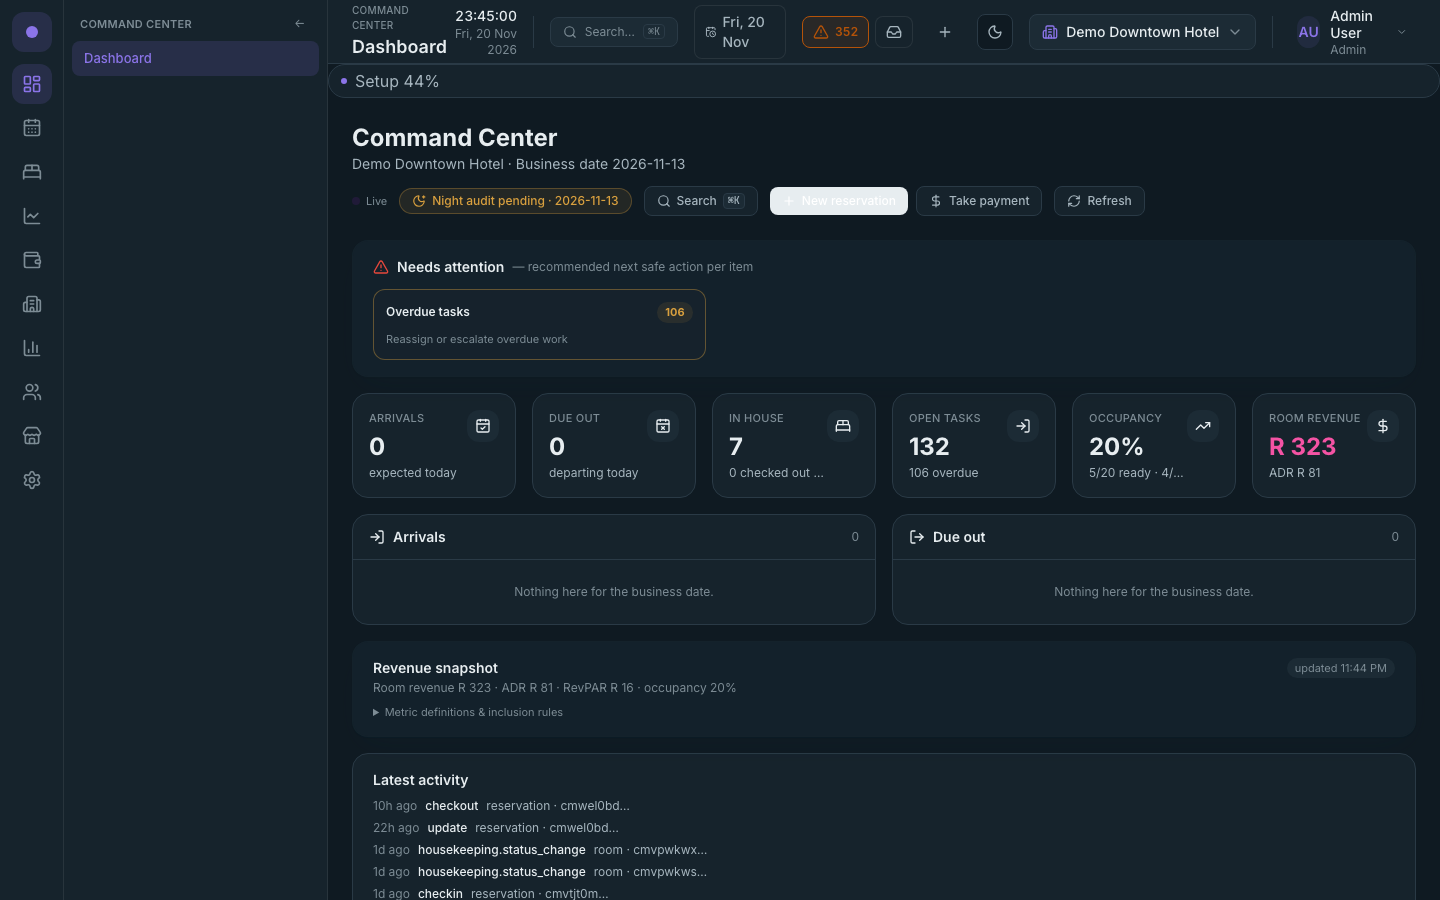
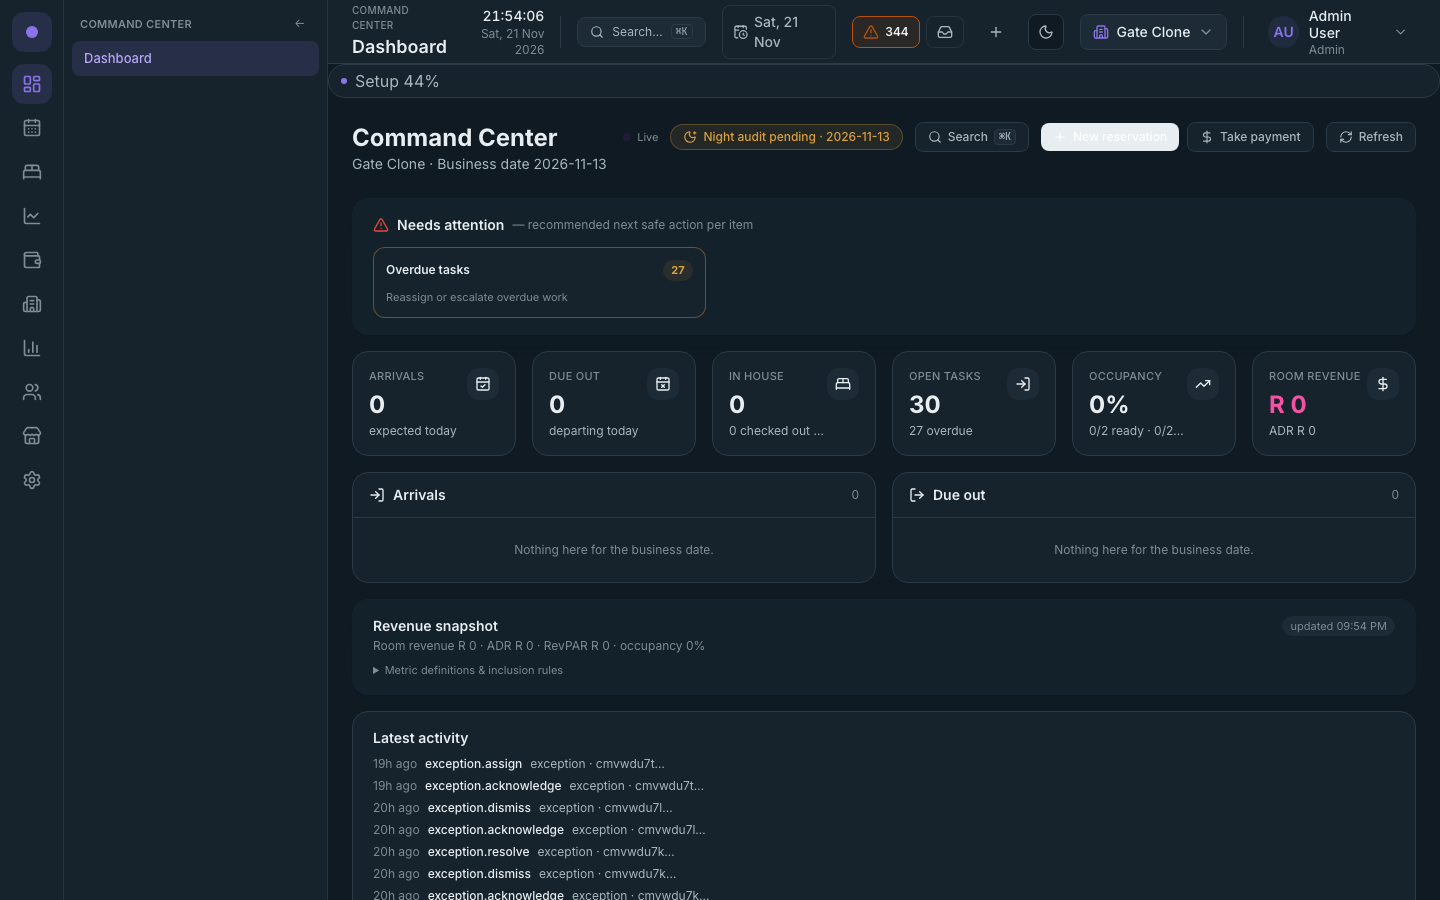
fix(a11y): F-12 soft-pair foreground tokens (warning/danger/info/accent-soft-fg, AA-computed per theme) + chips repointed + AR table headers to primary foreground; 22 -> rescan

diff --git a/apps/web/src/app/app/ar/page.jsx b/apps/web/src/app/app/ar/page.jsx
@@ -47,9 +47,9 @@ const fmtDate = (d) => (d ? new Date(d).toISOString().slice(0, 10) : '—');
 
 const STATUS_STYLE = {
   draft: 'bg-[var(--hq-surface-2)] text-text-secondary',
-  sent: 'bg-accent/15 text-accent',
-  partially_paid: 'bg-warning/25 text-warning',
-  overdue: 'bg-danger/25 text-danger',
+  sent: 'bg-accent/15 text-[var(--accent-soft-fg)]',
+  partially_paid: 'bg-warning/25 text-[var(--warning-soft-fg)]',
+  overdue: 'bg-danger/25 text-[var(--danger-soft-fg)]',
   paid: 'bg-success/15 text-success',
   cancelled: 'bg-[var(--hq-surface-2)] text-text-muted line-through',
 };
@@ -86,7 +86,7 @@ function InvoiceStatusBar({ invoices }) {
 
 const inputCls =
   'w-full rounded-md border border-border bg-card px-3 py-2 text-sm focus:outline-none focus:ring-2 focus:ring-slate-300';
-const thCls = 'px-4 py-2 text-left text-xs font-semibold uppercase tracking-wide text-text-muted';
+const thCls = 'px-4 py-2 text-left text-xs font-semibold uppercase tracking-wide text-text-primary';
 const tdCls = 'px-4 py-2.5 text-sm text-text-secondary';
 
 // ─── Small building blocks ───

diff --git a/apps/web/src/app/app/dashboard/dashWidgets.jsx b/apps/web/src/app/app/dashboard/dashWidgets.jsx
@@ -471,9 +471,9 @@ export function AttentionStrip({ exceptions, loading }) {
 // then urgent tasks, then remaining departures, then arrivals.
 
 const kindMeta = {
-  Departure: { icon: CalendarX, chip: 'bg-info/25 text-info' },
+  Departure: { icon: CalendarX, chip: 'bg-info/25 text-[var(--info-soft-fg)]' },
   Arrival: { icon: CalendarCheck, chip: 'bg-accent/10 text-accent' },
-  Task: { icon: AlertTriangle, chip: 'bg-warning/25 text-warning' },
+  Task: { icon: AlertTriangle, chip: 'bg-warning/25 text-[var(--warning-soft-fg)]' },
 };
 
 export function PriorityWorklist({ arrivals, departures, tasksTop, currency, loading, viewAllTo }) {

diff --git a/apps/web/src/components/StatusBanner.tsx b/apps/web/src/components/StatusBanner.tsx
@@ -42,7 +42,7 @@ export function StatusBanner() {
       className={
         critical
           ? 'flex items-center gap-2 border-b border-red-500/30 bg-red-500/10 px-4 py-2 text-sm font-medium text-red-500 hover:bg-red-500/15'
-          : 'flex items-center gap-2 border-b border-warning/30 bg-warning/10 px-4 py-2 text-sm font-medium text-warning hover:bg-warning/25'
+          : 'flex items-center gap-2 border-b border-warning/30 bg-warning/10 px-4 py-2 text-sm font-medium text-[var(--warning-soft-fg)] hover:bg-warning/25'
       }
     >
       <AlertTriangle className="h-4 w-4 shrink-0" />

diff --git a/apps/web/src/app/app/night-audit/page.jsx b/apps/web/src/app/app/night-audit/page.jsx
@@ -70,7 +70,7 @@ const severityConfig = {
 const statusConfig = {
   in_progress: {
     label: 'In Progress',
-    color: 'bg-accent/15 text-accent',
+    color: 'bg-accent/15 text-[var(--accent-soft-fg)]',
   },
   completed: {
     label: 'Completed',
@@ -78,11 +78,11 @@ const statusConfig = {
   },
   failed: {
     label: 'Failed',
-    color: 'bg-danger/25 text-danger',
+    color: 'bg-danger/25 text-[var(--danger-soft-fg)]',
   },
   rolled_back: {
     label: 'Rolled Back',
-    color: 'bg-warning/25 text-warning',
+    color: 'bg-warning/25 text-[var(--warning-soft-fg)]',
   },
 };
 

diff --git a/apps/web/src/app/app/keys/page.jsx b/apps/web/src/app/app/keys/page.jsx
@@ -169,9 +169,9 @@ export default function KeysPage() {
                 <Badge
                   className={
                     i.status === 'active'
-                      ? 'bg-warning/25 text-warning'
+                      ? 'bg-warning/25 text-[var(--warning-soft-fg)]'
                       : i.status === 'lost'
-                        ? 'bg-danger/25 text-danger'
+                        ? 'bg-danger/25 text-[var(--danger-soft-fg)]'
                         : 'bg-muted text-muted-foreground'
                   }
                 >

diff --git a/apps/web/src/components/billing/ReceiptCard.jsx b/apps/web/src/components/billing/ReceiptCard.jsx
@@ -37,7 +37,11 @@ export function ReceiptCard({ folio, currency = 'ZAR' }) {
           </p>
         </div>
         <Badge
-          className={balance > 0 ? 'bg-warning/25 text-warning' : 'bg-success/15 text-success'}
+          className={
+            balance > 0
+              ? 'bg-warning/25 text-[var(--warning-soft-fg)]'
+              : 'bg-success/15 text-success'
+          }
         >
           {status}
         </Badge>
